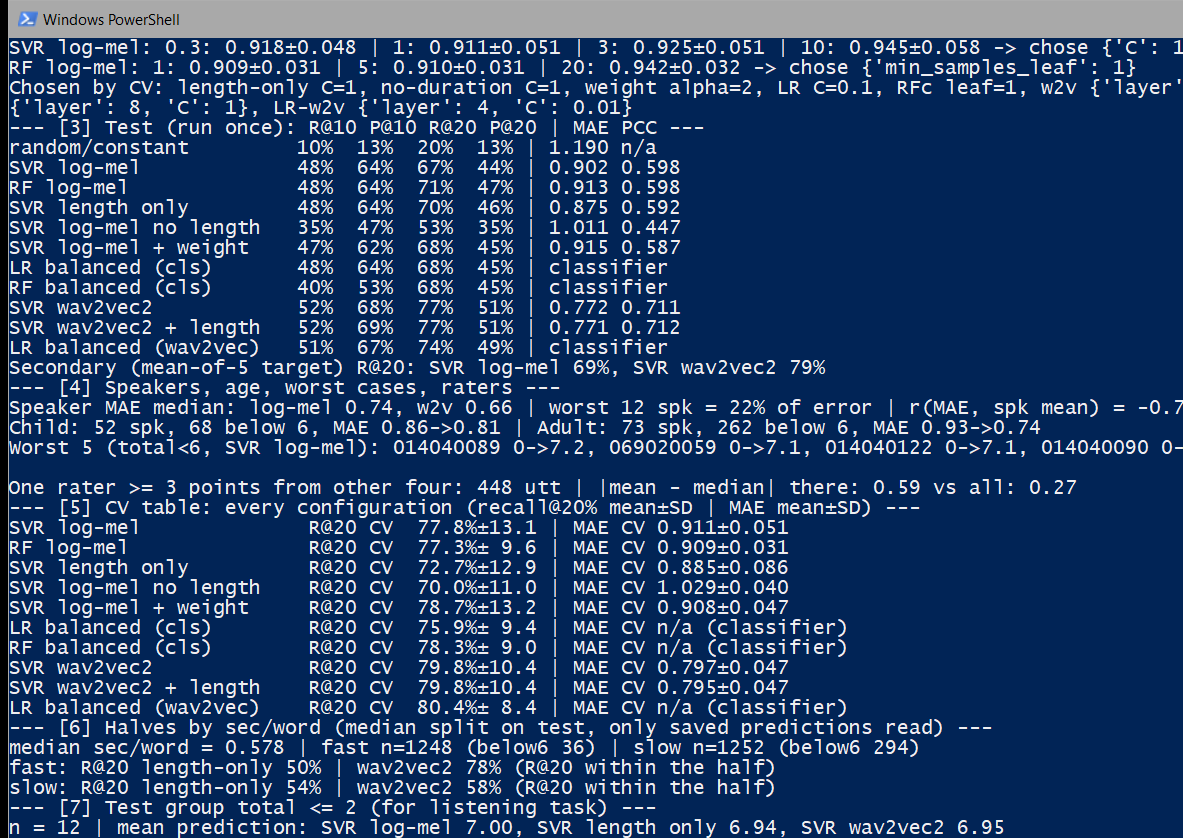
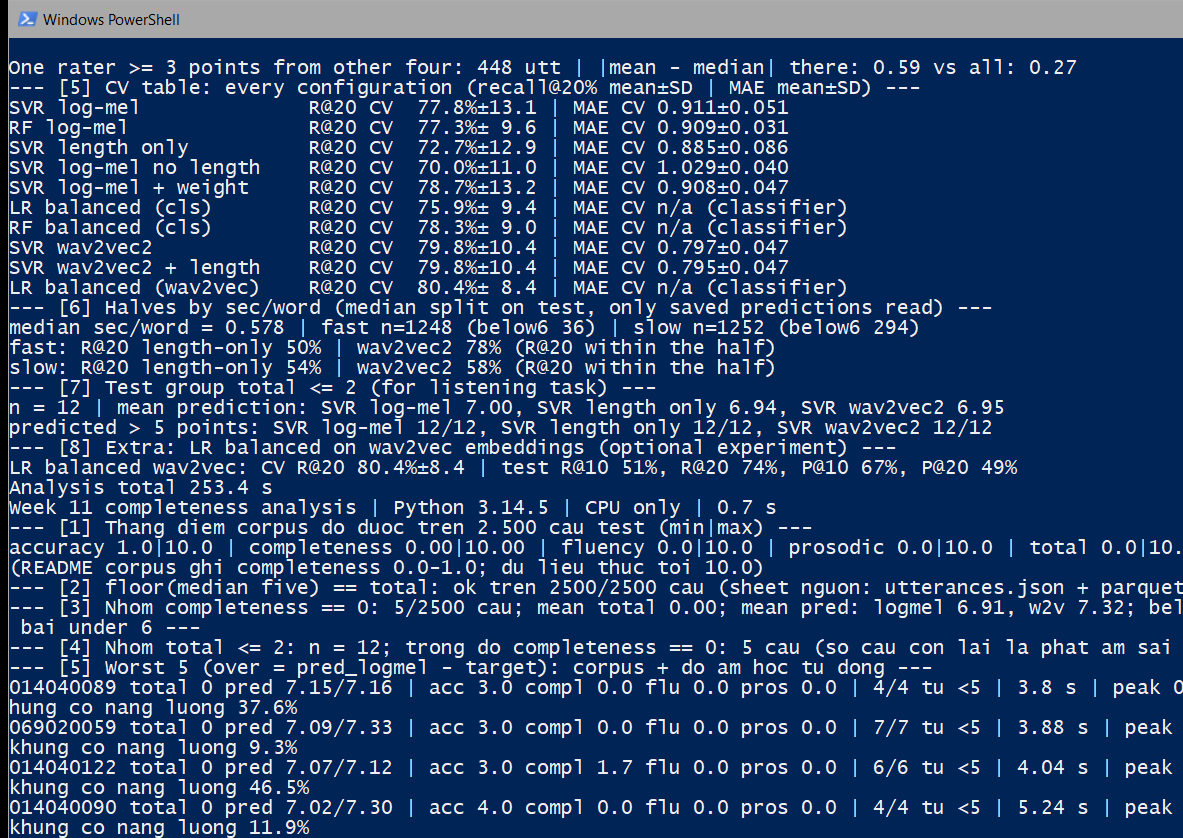
official week11 run + terminal capture + wave rebuild script

diff --git a/docs/report/week11_work/rebuild_wave_from_parquet.py b/docs/report/week11_work/rebuild_wave_from_parquet.py
@@ -1,0 +1,42 @@
+# Dung lai bo WAVE 5.000 file .wav cho dataset week09_work\data\speechocean762
+# boi vi thu muc WAVE da bi xoa khoi may (ngay 9/11/2026). Nguon bytes: 2 parquet HF
+# (train/test, moi hang co audio.path = '000010011.wav' + audio.bytes) tai thu muc parquet.
+# Cau truc xuat dung nhu dataset goc tren GitHub: WAVE/SPEAKERxxxx/<uid>.WAV, trong do
+# SPEAKERxxxx = 'SPEAKER' + speaker_id 4 chu so LAY TRUC TIEP TU split_manifest.csv
+# (kiem tra mau: 000010011 -> 0001 = SPEAKER0001 theo link GitHub chu the).
+# Chay: python rebuild_wave_from_parquet.py <thu_muc_parquet>
+from pathlib import Path
+import csv, sys, time
+import pyarrow.parquet as pq
+
+P = Path(__file__).parent
+PARQ = Path(sys.argv[1]) if len(sys.argv) > 1 else Path(r'C:\Users\DucAnh\AppData\Local\Temp\opencode\sp762')
+WAVE = P.parent / 'week09_work' / 'data' / 'speechocean762' / 'WAVE'
+t0 = time.perf_counter()
+
+# map uid -> speaker_id (4 chu so) tu manifest cua du an — an toan hon doan tu uid
+man = {r['utterance_id']: r['speaker_id'] for r in csv.DictReader((P.parent / 'week10_work' / 'split_manifest.csv').open(encoding='utf-8'))}
+assert len(man) == 5000, len(man)
+
+n = 0
+for part in ['train-00000-of-00001.parquet', 'test-00000-of-00001.parquet']:
+    pf = pq.ParquetFile(PARQ / part)
+    for b in pf.iter_batches(batch_size=128, columns=['audio']):
+        for r in b.to_pylist():
+            a = r['audio']
+            uid = Path(a['path']).stem
+            assert uid in man, f'{uid} khong co trong split_manifest.csv'
+            spk = man[uid]
+            out = WAVE / f'SPEAKER{spk}' / f'{uid}.WAV'
+            out.parent.mkdir(parents=True, exist_ok=True)
+            out.write_bytes(a['bytes'])
+            n += 1
+
+# Kiem chung sau khi xong: dung 5.000 file, khong thua, khong thieu, du 5 worst5
+files = list(WAVE.glob('SPEAKER*/*.WAV'))
+assert len(files) == 5000, len(files)
+assert set(f.stem for f in files) == set(man), 'bo WAVE khac split_manifest.csv'
+for uid in ['014040089', '069020059', '014040122', '014040090', '069020075']:
+    assert (WAVE / f'SPEAKER{man[uid]}' / f'{uid}.WAV').exists(), uid
+
+print(f'REBUILD WAVE OK: {n} hang parquet -> 5000 file, {time.perf_counter() - t0:.0f} s, tai {WAVE}')

diff --git a/docs/report/week11_work/2026-11-09-week11-new-report-plan.md b/docs/report/week11_work/2026-11-09-week11-new-report-plan.md
@@ -97,10 +97,10 @@
 
 **Interfaces:** chạy qua `official_capture.ps1` (cửa sổ PowerShell thật → done-file → PrintWindow → đóng).
 
-- [ ] **4.1** Sửa `run_week11.ps1`: thứ tự analysis → completeness → figures (một ảnh chụp là minh chứng cho cả ba).
-- [ ] **4.2** Chạy `official_capture.ps1` đên done (analysis ~3,5 phút + completeness ~15 giây + figures).
-- [ ] **4.3** Kiểm chứng: `verify_week11.py` PASS; ảnh PNG mới (mtime, kích thước); JSON/log mới có mtime đúng buổi này.
-- [ ] **4.4** Commit: `official week11 run + completeness evidence`.
+- [x] **4.1** Sửa `run_week11.ps1`: thứ tự analysis → completeness → figures (một ảnh chụp là minh chứng cho cả ba).
+- [x] **4.2** Chạy `official_capture.ps1` đên done (analysis ~3,5 phút + completeness ~15 giây + figures).
+- [x] **4.3** Kiểm chứng: `verify_week11.py` PASS; ảnh PNG mới (mtime, kích thước); JSON/log mới có mtime đúng buổi này.
+- [x] **4.4** Commit: `official week11 run + completeness evidence`.
 
 ### Task 5: Đóng gói minh chứng + nhúng OLE + render kiểm + bàn giao
 
